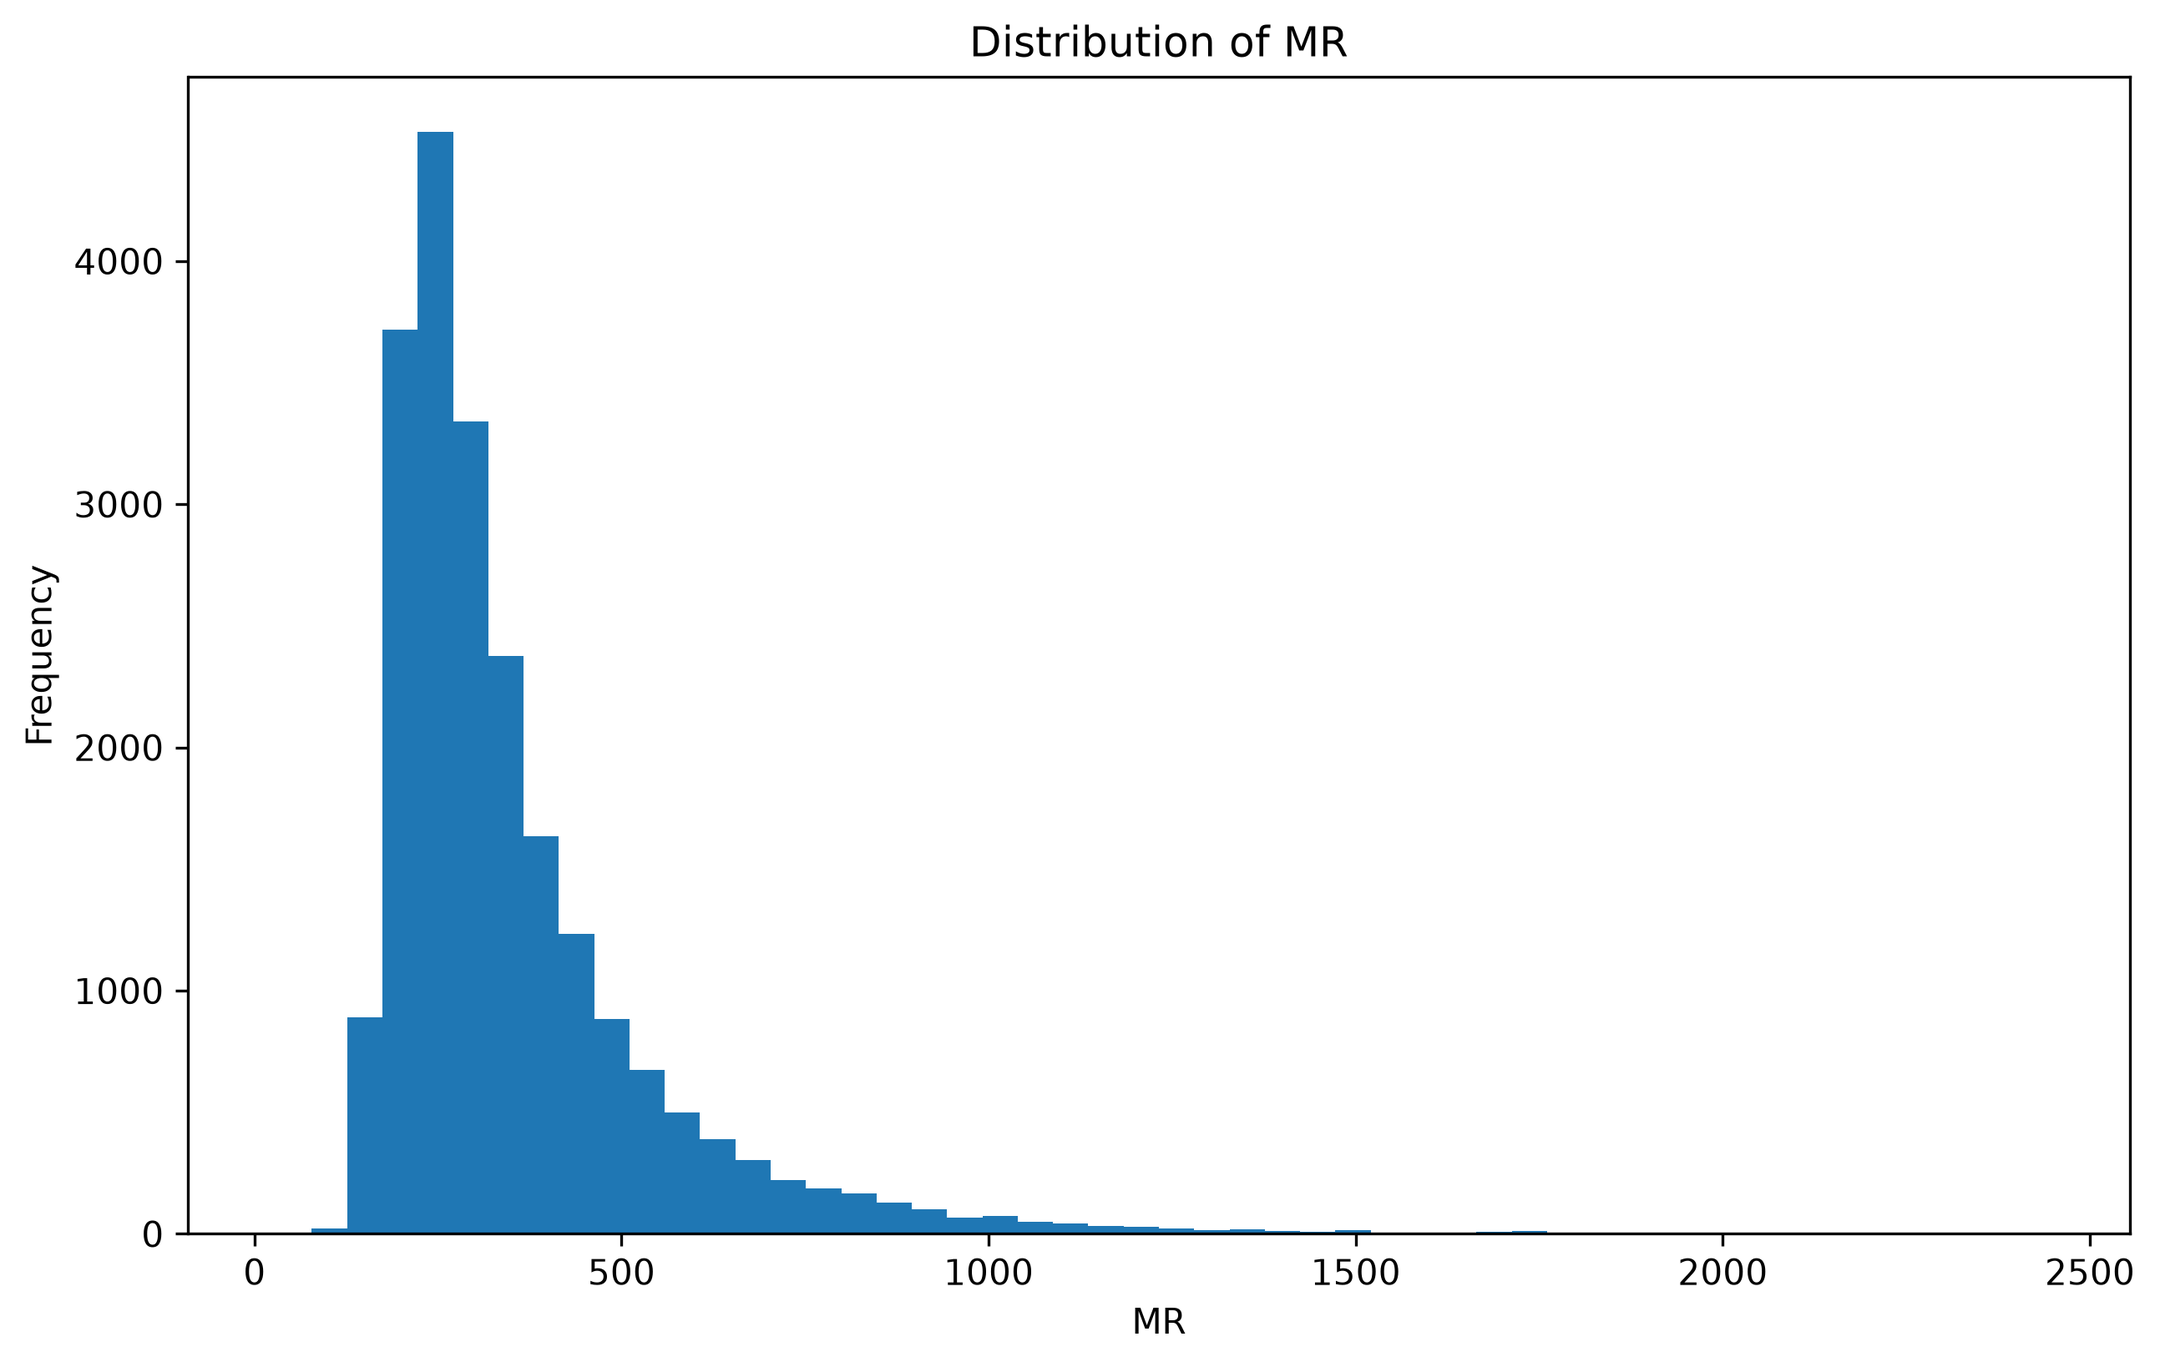
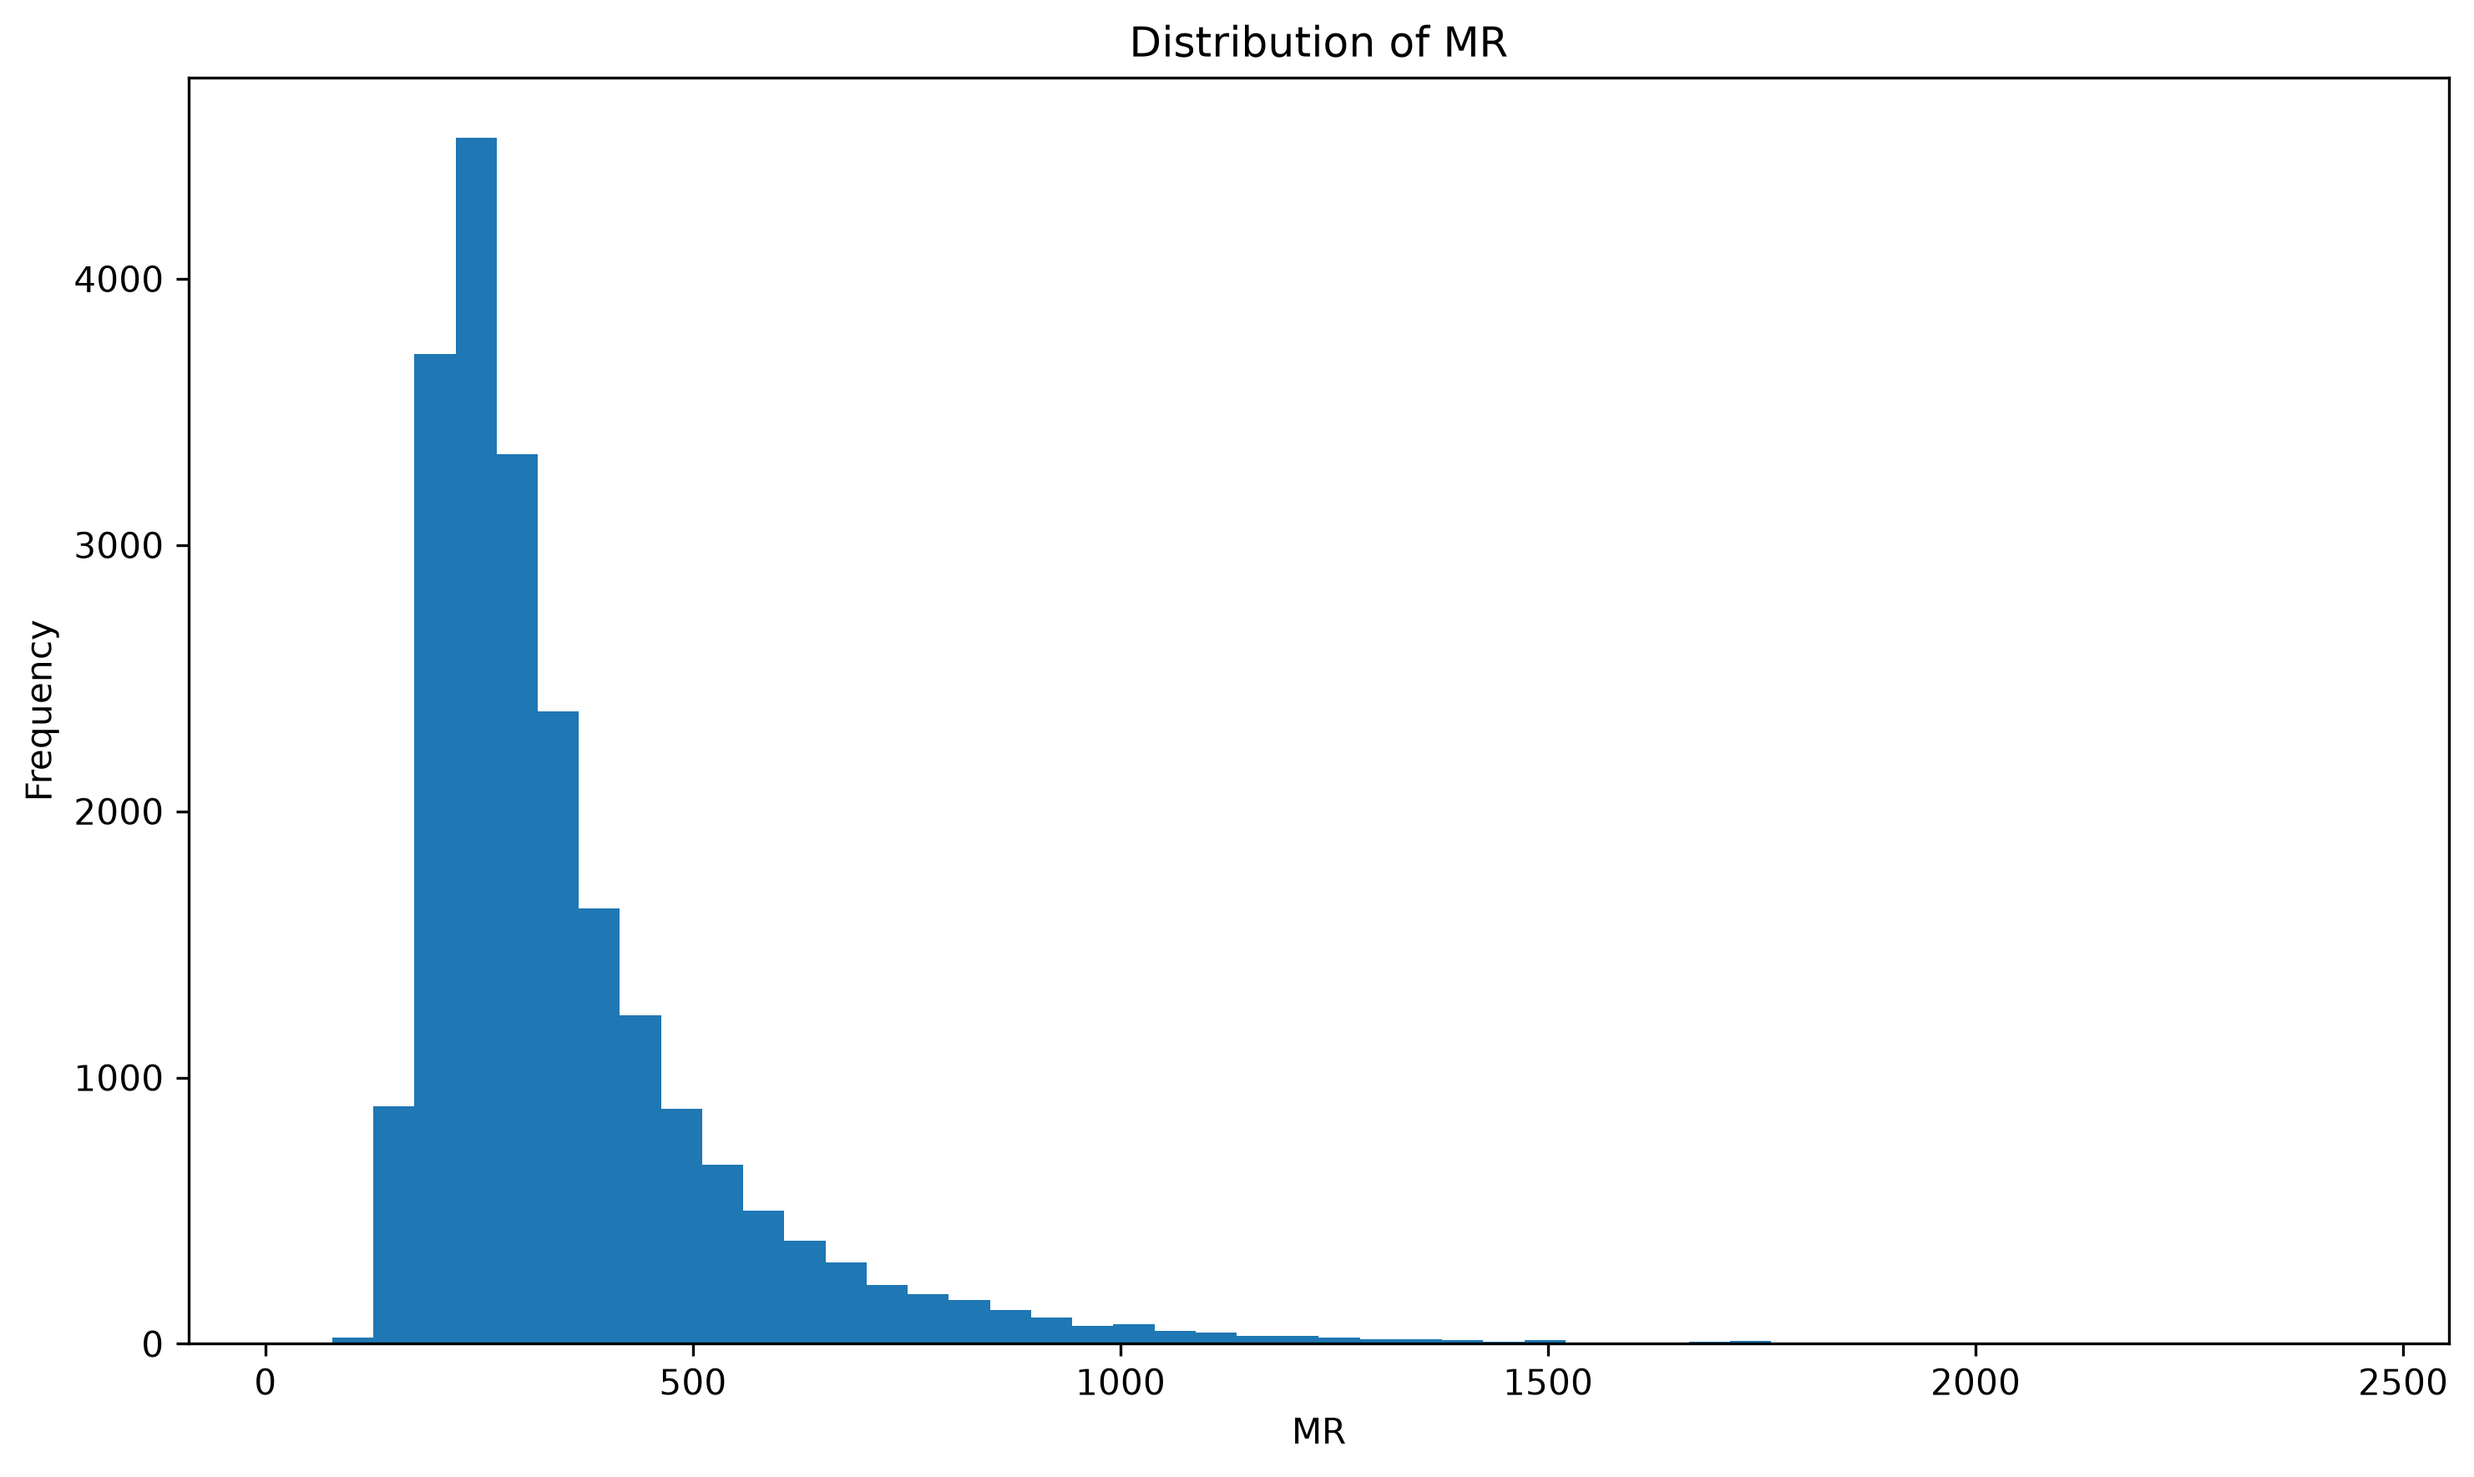
finish univariate visualization

diff --git a/src/visualization.py b/src/visualization.py
@@ -1,4 +1,6 @@
 import matplotlib.pyplot as plt
+import pandas as pd
+from pathlib import Path
 
 def plot_mr_distribution(df):
 
@@ -23,7 +25,7 @@ def plot_mr_boxplot(df):
 
     plt.figure(figsize=(10, 5))
 
-    plt.boxplot(df["MR"], vert=False)
+    plt.boxplot(df["MR"], orientation="horizontal")
 
     plt.xlabel("MR")
     plt.title("Boxplot of MR")
@@ -63,7 +65,7 @@ def plot_rsq_boxplot(df):
 
     plt.figure(figsize=(10, 5))
 
-    plt.boxplot(df["Rsq"], vert=False)
+    plt.boxplot(df["Rsq"], orientation="horizontal")
 
     plt.xlabel("Rsq")
     plt.title("Boxplot of Rsq")
@@ -78,6 +80,110 @@ def plot_rsq_boxplot(df):
     plt.pause(1)
     plt.close()
 
+def plot_feature_distribution(df, feature):
+
+    plt.figure(figsize=(10, 6))
+
+    plt.hist(df[feature].dropna(), bins=50)
+
+    plt.xlabel(feature)
+    plt.ylabel("Frequency")
+    plt.title(f"Distribution of {feature}")
+
+    plt.tight_layout()
+
+    plt.savefig(
+        f"results/figures/{feature.lower()}_distribution.png",
+        dpi=300,
+        bbox_inches="tight"
+    )
+
+    plt.close()
+
+
+def plot_feature_boxplot(df, feature):
+
+    plt.figure(figsize=(10, 5))
+
+    plt.boxplot(
+        df[feature].dropna(),
+        orientation="horizontal"
+    )
+
+    plt.xlabel(feature)
+    plt.title(f"Boxplot of {feature}")
+
+    plt.tight_layout()
+
+    plt.savefig(
+        f"results/figures/{feature.lower()}_boxplot.png",
+        dpi=300,
+        bbox_inches="tight"
+    )
+
+    plt.close()
+
+
+def plot_discrete_feature(df, feature):
+
+    counts = df[feature].value_counts().sort_index()
+
+    plt.figure(figsize=(9, 5))
+
+    plt.bar(
+        counts.index.astype(str),
+        counts.values
+    )
+
+    plt.xlabel(feature)
+    plt.ylabel("Frequency")
+    plt.title(f"Frequency Distribution of {feature}")
+
+    plt.tight_layout()
+
+    plt.savefig(
+        f"results/figures/{feature.lower()}_frequency.png",
+        dpi=300,
+        bbox_inches="tight"
+    )
+
+    plt.close()
+
+
+def analyze_all_features(df):
+
+    Path("results/figures").mkdir(
+        parents=True,
+        exist_ok=True
+    )
+
+    continuous_features = [
+        "MR", "Rsq",
+        "E1", "Px1", "Py1", "Pz1",
+        "E2", "Px2", "Py2", "Pz2",
+        "HT", "MET"
+    ]
+
+    discrete_features = [
+        "nJets", "nBJets"
+    ]
+
+    for feature in continuous_features:
+
+        print(f"Analyzing {feature}...")
+
+        plot_feature_distribution(df, feature)
+        plot_feature_boxplot(df, feature)
+
+    for feature in discrete_features:
+
+        print(f"Analyzing {feature}...")
+
+        plot_discrete_feature(df, feature)
+
+    print("\nUnivariate visualization completed.")
+
+
 if __name__ == "__main__":
 
     from src.data_loader import load_data
@@ -85,10 +191,7 @@ if __name__ == "__main__":
     df = load_data()
 
     # Visualizations
-    plot_mr_distribution(df)
-    plot_mr_boxplot(df)
-    plot_rsq_distribution(df)
-    plot_rsq_boxplot(df)
+    analyze_all_features(df)
 
     # Rsq Outlier Analysis
     q1 = df["Rsq"].quantile(0.25)
@@ -110,4 +213,77 @@ if __name__ == "__main__":
     print(
         "Percentage:",
         len(potential_outliers) / len(df) * 100
+    )
+
+    # Feature Inventory
+
+    print("\n========== DATASET OVERVIEW ==========")
+
+    print("Dataset Shape:", df.shape)
+
+    print("\n========== FEATURE NAMES ==========")
+    print(df.columns.tolist())
+
+    print("\n========== DATA TYPES ==========")
+    print(df.dtypes)
+
+    print("\n========== DATA QUALITY ==========")
+
+    inventory = pd.DataFrame({
+        "Data Type": df.dtypes,
+        "Unique Values": df.nunique(),
+        "Missing Values": df.isnull().sum(),
+        "Missing Percentage": (
+            df.isnull().mean() * 100
+        )
+    })
+
+    print(inventory)
+
+    print("\n========== DUPLICATES ==========")
+    print("Duplicate Rows:", df.duplicated().sum())
+
+    print("\n========== STATISTICAL SUMMARY ==========")
+    print(df.describe().T)
+
+
+    # Extended Statistical Investigation
+
+    numeric_features = df.select_dtypes(
+        include="number"
+    ).columns.drop(
+        ["Run", "Lumi", "Event"],
+        errors="ignore"
+    )
+
+    print("\n========== SKEWNESS ==========")
+
+    print(
+        df[numeric_features]
+        .skew()
+        .sort_values(ascending=False)
+    )
+
+    print("\n========== ZERO VALUES ==========")
+
+    print(
+        (df[numeric_features] == 0)
+        .sum()
+        .sort_values(ascending=False)
+    )
+
+    print("\n========== NEGATIVE VALUES ==========")
+
+    print(
+        (df[numeric_features] < 0)
+        .sum()
+        .sort_values(ascending=False)
+    )
+
+    print("\n========== ADDITIONAL QUANTILES ==========")
+
+    print(
+        df[numeric_features].quantile(
+            [0.01, 0.05, 0.95, 0.99]
+        ).T
     )
